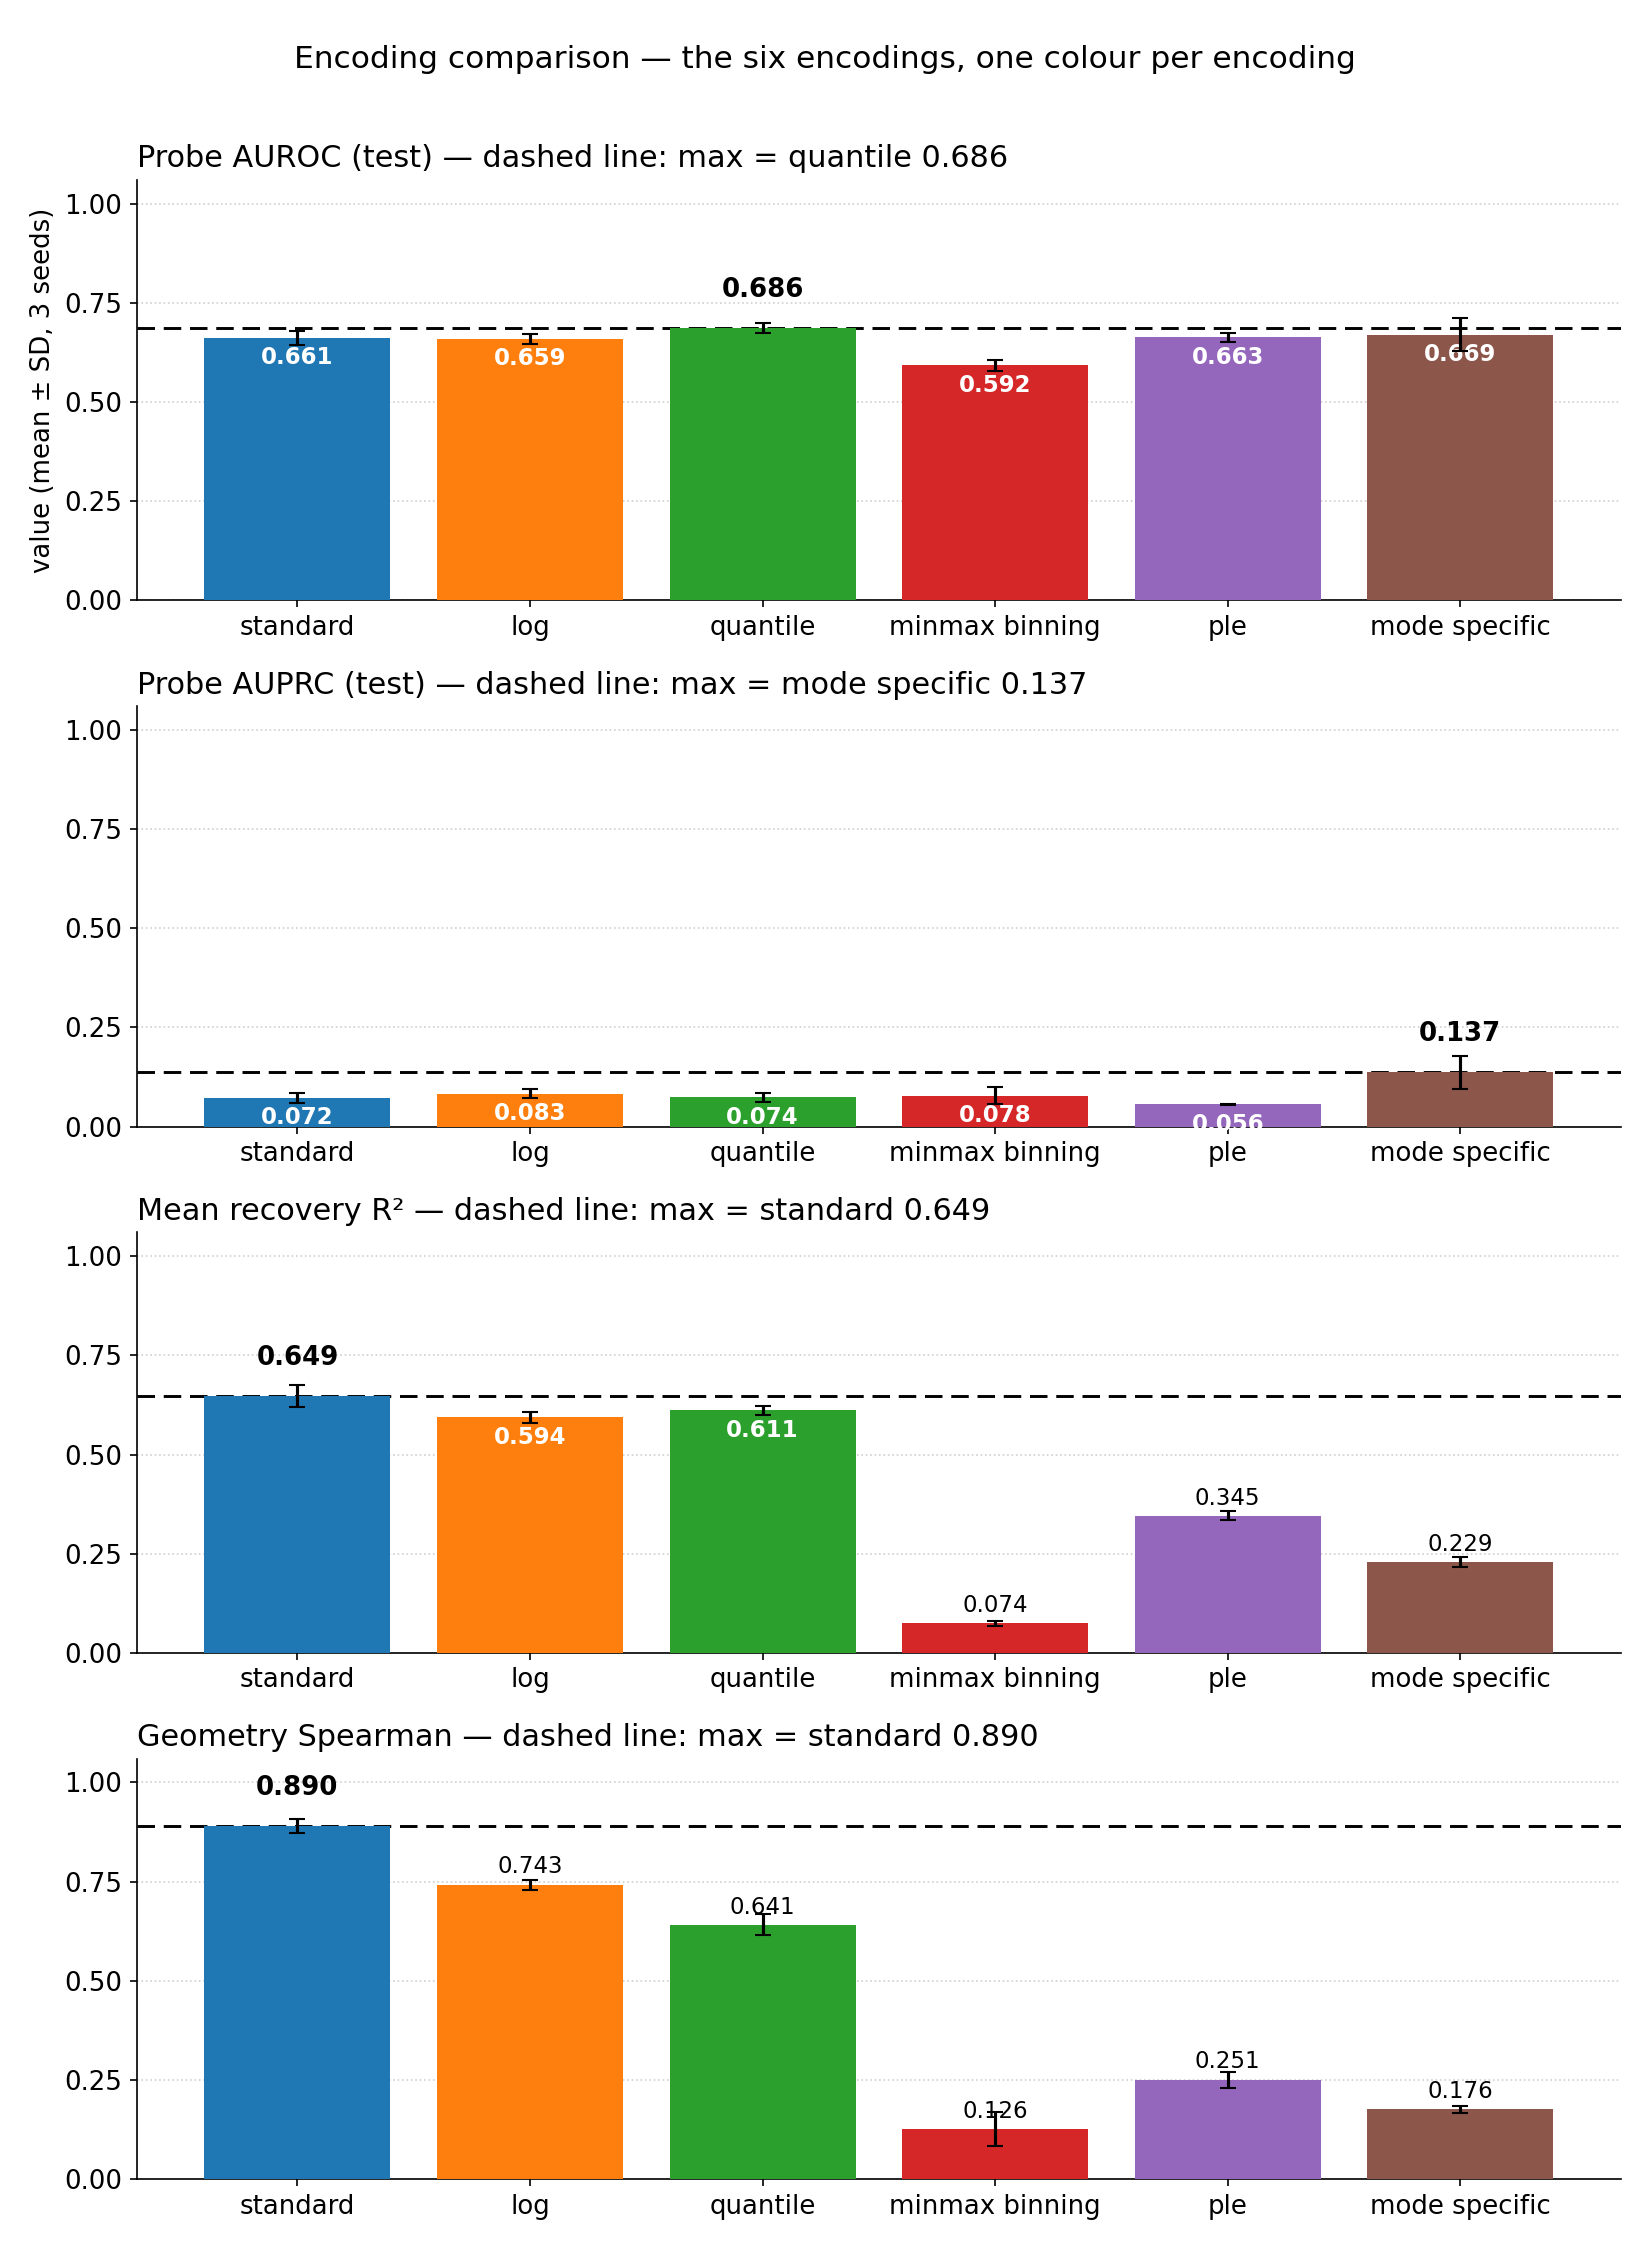
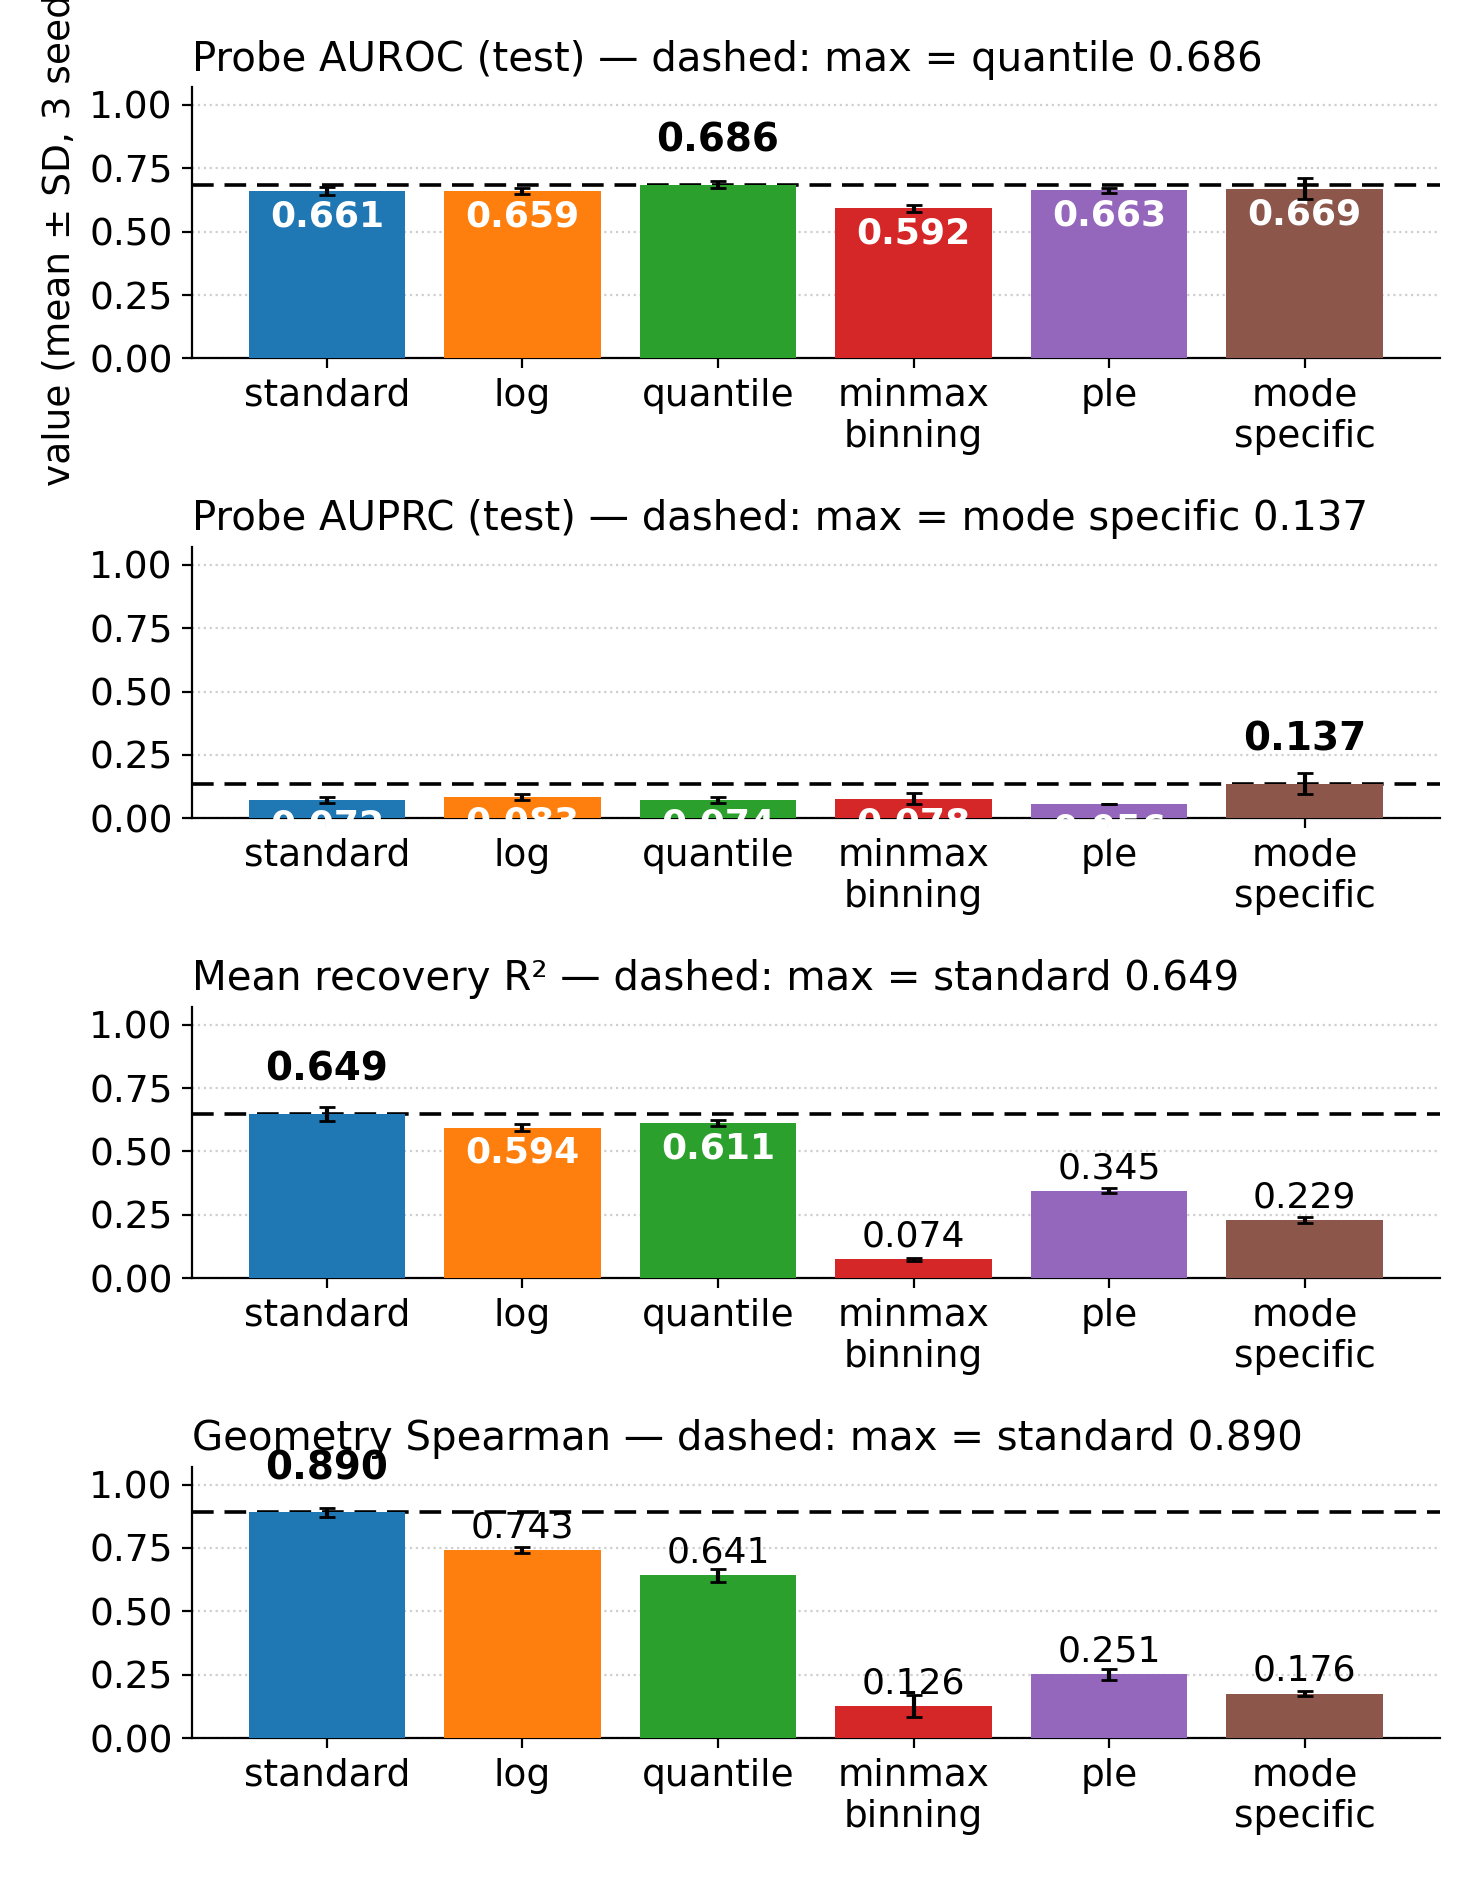
Figure v5: designed at paper width, all fonts >=13pt at print size; included at full column width

Changed region(s): [[0.0, 0.0, 0.9635, 0.9872]]

diff --git a/results/progress_report6.tex b/results/progress_report6.tex
@@ -144,7 +144,7 @@ since each changes the reconstruction target's scale.}
 
 \begin{figure}
 \centering
-\includegraphics[width=0.72\columnwidth]{fig_week6_all_encodings.png}
+\includegraphics[width=\columnwidth]{fig_week6_all_encodings.png}
 \caption{Per-metric comparison with error bars across the six encodings
 (one colour per encoding), eICU demo data; the maximum in each panel is
 marked by a dashed line. Findings: no encoding wins overall --- the maximum changes
